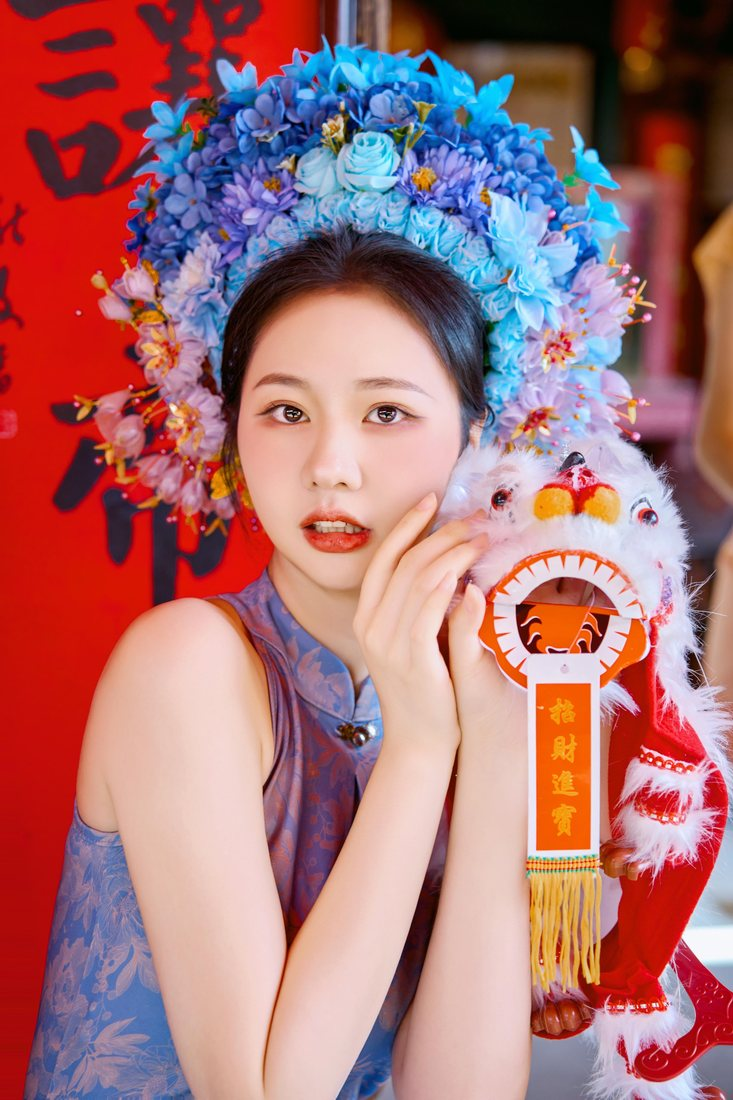
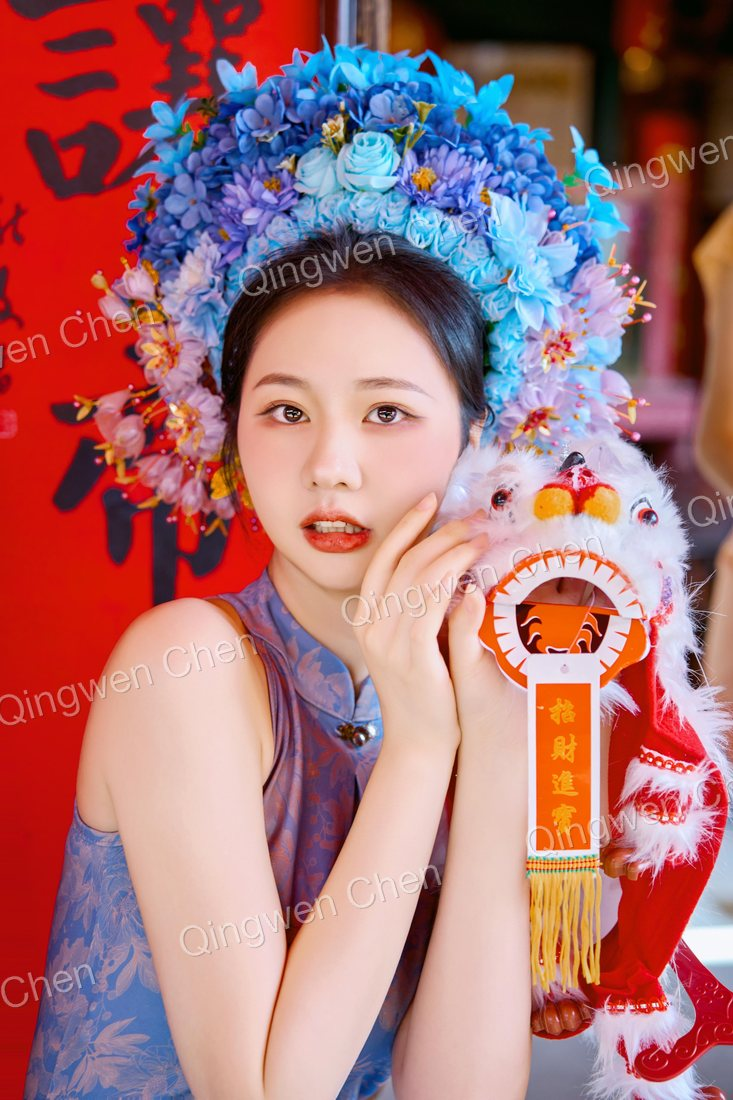
Embed 3-row Qingwen Chen watermark into all Personal Image gallery photos

diff --git a/assets/js/app.js b/assets/js/app.js
@@ -159,7 +159,7 @@
       .map(
         (tile) => `
         <article class="spotlight-tile">
-          <img class="spotlight-tile__img" src="${escapeHtml(tile.image)}" alt="${escapeHtml(t(tile.title))}" style="object-position:${escapeHtml(tile.pos || "center 20%")}" />
+          <img class="spotlight-tile__img" src="${escapeHtml(tile.image)}?wm=1" alt="${escapeHtml(t(tile.title))}" style="object-position:${escapeHtml(tile.pos || "center 20%")}" />
           <div class="spotlight-tile__scrim" aria-hidden="true"></div>
           <div class="spotlight-tile__content">
             <p class="spotlight-tile__eyebrow">${escapeHtml(t(tile.eyebrow))}</p>
@@ -229,7 +229,7 @@
         return `
           <button type="button" class="gallery-card" data-gallery-idx="${idx}" aria-label="${escapeHtml(caption)}">
             <span class="gallery-card__frame">
-              <img class="gallery-card__img" src="${escapeHtml(item.src)}" alt="${escapeHtml(caption)}" style="object-position:${escapeHtml(pos)}" loading="lazy" />
+              <img class="gallery-card__img" src="${escapeHtml(item.src)}?wm=1" alt="${escapeHtml(caption)}" style="object-position:${escapeHtml(pos)}" loading="lazy" />
             </span>
             <span class="gallery-card__caption">${escapeHtml(caption)}</span>
           </button>
@@ -315,7 +315,7 @@
       <button type="button" class="lightbox__close" id="lb-close" aria-label="${escapeHtml(closeLabel)}">&times;</button>
       <button type="button" class="lightbox__nav lightbox__nav--prev" id="lb-prev" aria-label="${escapeHtml(prevLabel)}">&#8249;</button>
       <div class="lightbox__dialog">
-        <img class="lightbox__img" src="${escapeHtml(item.src)}" alt="${escapeHtml(caption)}" />
+        <img class="lightbox__img" src="${escapeHtml(item.src)}?wm=1" alt="${escapeHtml(caption)}" />
         <div class="lightbox__bar">
           <span>${escapeHtml(caption)}</span>
           <span class="lightbox__counter">${state.lightboxIndex + 1} / ${items.length}</span>

diff --git a/index.html b/index.html
@@ -55,6 +55,6 @@
   <script src="assets/js/vendor/gsap.min.js"></script>
   <script src="assets/js/vendor/ScrollTrigger.min.js"></script>
   <script src="assets/js/site-data.js?v=19"></script>
-  <script src="assets/js/app.js?v=14"></script>
+  <script src="assets/js/app.js?v=15"></script>
 </body>
 </html>
